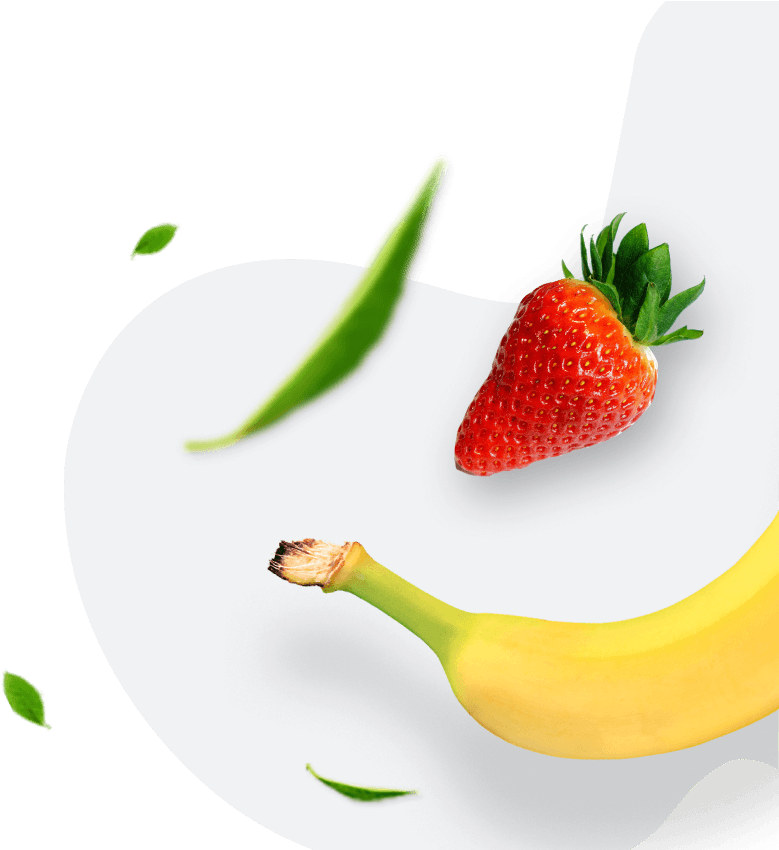
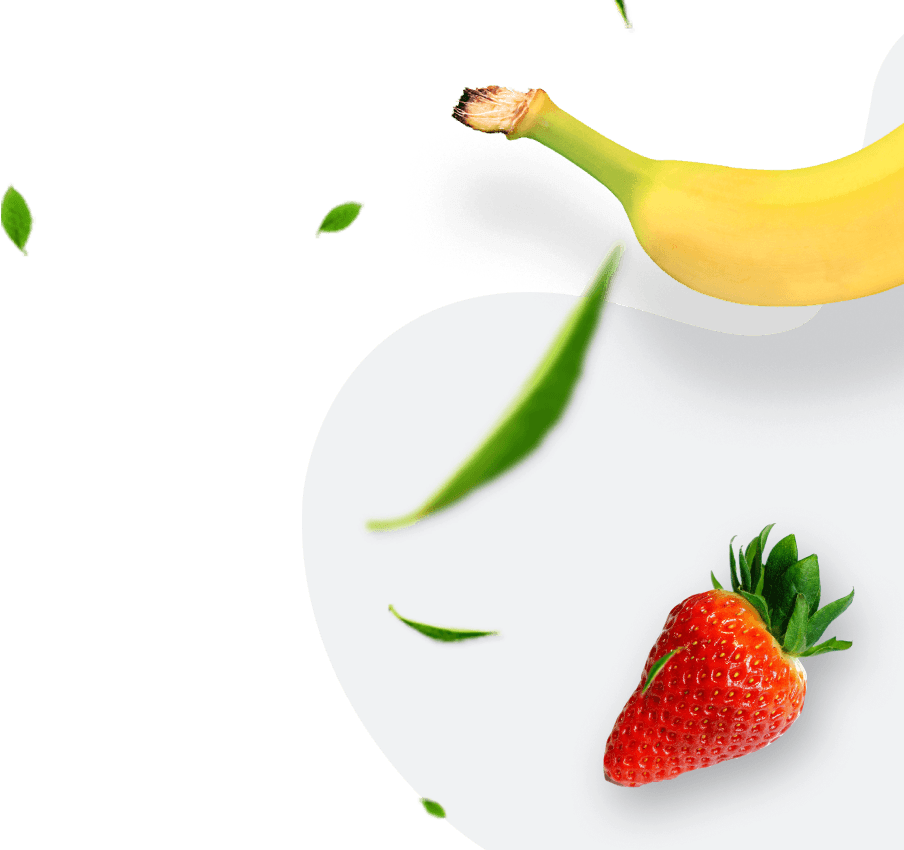
add img

diff --git a/src/components/views/RegisterPage/RegisterPage.module.css b/src/components/views/RegisterPage/RegisterPage.module.css
@@ -1,5 +1,7 @@
 .wrapper {
    position: relative;
+   width: 100vw;
+   height: 100vh;
 }
 
 .container {
@@ -12,28 +14,39 @@
    z-index: 1;
 }
 
-.bg_img {
+.desctop_img,
+.tablet_img {
    display: none;
 }
 
 @media screen and (min-width: 768.1px) {
    .container {
-      padding-top: 236px;
-      padding-left: 86px;
+      padding-top: 270px;
+      padding-left: 92px;
       justify-content: start;
+   }
+}
+
+@media screen and (min-width: 768.1px) and (max-width: 1024px) {
+   .tablet_img {
+      display: block;
+      position: absolute;
+      bottom: 0;
+      right: 0;
+      z-index: 0;
    }
 }
 
 @media screen and (min-width: 1024.1px) {
    .container {
-      padding-top: 244px;
+      padding-top: 362px;
       padding-left: 114px;
    }
 
-   .bg_img {
+   .desctop_img {
       display: block;
       position: absolute;
-      top: 0;
+      bottom: 0;
       right: 0;
       z-index: 0;
    }

diff --git a/src/components/views/MainPage/MainPage.module.css b/src/components/views/MainPage/MainPage.module.css
@@ -1,5 +1,7 @@
 .wrapper {
    position: relative;
+   width: 100vw;
+   height: 100vh;
 }
 
 .container {
@@ -12,7 +14,8 @@
    z-index: 1;
 }
 
-.bg_img {
+.desctop_img,
+.tablet_img {
    display: none;
 }
 
@@ -24,6 +27,16 @@
    }
 }
 
+@media screen and (min-width: 768.1px) and (max-width: 1024px) {
+   .tablet_img {
+      display: block;
+      position: absolute;
+      bottom: 0;
+      right: 0;
+      z-index: 0;
+   }
+}
+
 @media screen and (min-width: 1024.1px) {
    .container {
       padding-top: 292px;
@@ -32,10 +45,10 @@
       background-repeat: no-repeat;
    }
 
-   .bg_img {
+   .desctop_img {
       display: block;
       position: absolute;
-      top: 0;
+      bottom: 0;
       right: 0;
       z-index: 0;
    }

diff --git a/src/components/views/LoginPage/LoginPage.module.css b/src/components/views/LoginPage/LoginPage.module.css
@@ -1,5 +1,7 @@
 .wrapper {
    position: relative;
+   width: 100vw;
+   height: 100vh;
 }
 
 .container {
@@ -12,7 +14,8 @@
    z-index: 1;
 }
 
-.bg_img {
+.desctop_img,
+.tablet_img {
    display: none;
 }
 
@@ -24,16 +27,26 @@
    }
 }
 
+@media screen and (min-width: 768.1px) and (max-width: 1024px) {
+   .tablet_img {
+      display: block;
+      position: absolute;
+      bottom: 0;
+      right: 0;
+      z-index: 0;
+   }
+}
+
 @media screen and (min-width: 1024.1px) {
    .container {
       padding-top: 362px;
       padding-left: 114px;
    }
 
-   .bg_img {
+   .desctop_img {
       display: block;
       position: absolute;
-      top: 0;
+      bottom: 0;
       right: 0;
       z-index: 0;
    }

diff --git a/src/components/views/RegisterPage/RegisterPage.js b/src/components/views/RegisterPage/RegisterPage.js
@@ -7,7 +7,8 @@ import s from './RegisterPage.module.css';
 const RegisterPage = () => {
    return (
       <div className={s.wrapper}>
-         <img src="/images/desctop_min.png" alt="bg_img" className={s.bg_img} />
+         <img src="/images/desctop_min.png" alt="bg_img" className={s.desctop_img} />
+         <img src="/images/tablet_min.png" alt="tablet_img" className={s.tablet_img} />
          <div className={s.container}>
             <RegistrationForm />
          </div>

diff --git a/src/components/views/LoginPage/LoginPage.js b/src/components/views/LoginPage/LoginPage.js
@@ -7,7 +7,8 @@ import s from './LoginPage.module.css';
 const LoginPage = () => {
    return (
       <div className={s.wrapper}>
-         <img src="/images/desctop_min.png" alt="bg_img" className={s.bg_img} />
+         <img src="/images/desctop_min.png" alt="bg_img" className={s.desctop_img} />
+         <img src="/images/tablet_min.png" alt="tablet_img" className={s.tablet_img} />
          <div className={s.container}>
             <LoginForm />
          </div>

diff --git a/src/components/views/MainPage/MainPage.js b/src/components/views/MainPage/MainPage.js
@@ -9,7 +9,8 @@ const MainPage = () => {
 
    return (
       <div className={s.wrapper}>
-         <img src="/images/desctop_min.png" alt="bg_img" className={s.bg_img} />
+         <img src="/images/desctop_min.png" alt="desctop_img" className={s.desctop_img} />
+         <img src="/images/tablet_min.png" alt="tablet_img" className={s.tablet_img} />
          <div className={s.container}>
             <DailyCaloriesForm title={title} />
          </div>

diff --git a/src/components/Header/Header.module.css b/src/components/Header/Header.module.css
@@ -8,10 +8,10 @@
 }
 
 .header {
-   position: fixed;
+   position: absolute;
    width: 100%;
-
    flex-wrap: wrap;
+   z-index: 1;
 }
 .logo {
    padding-left: 15px;
